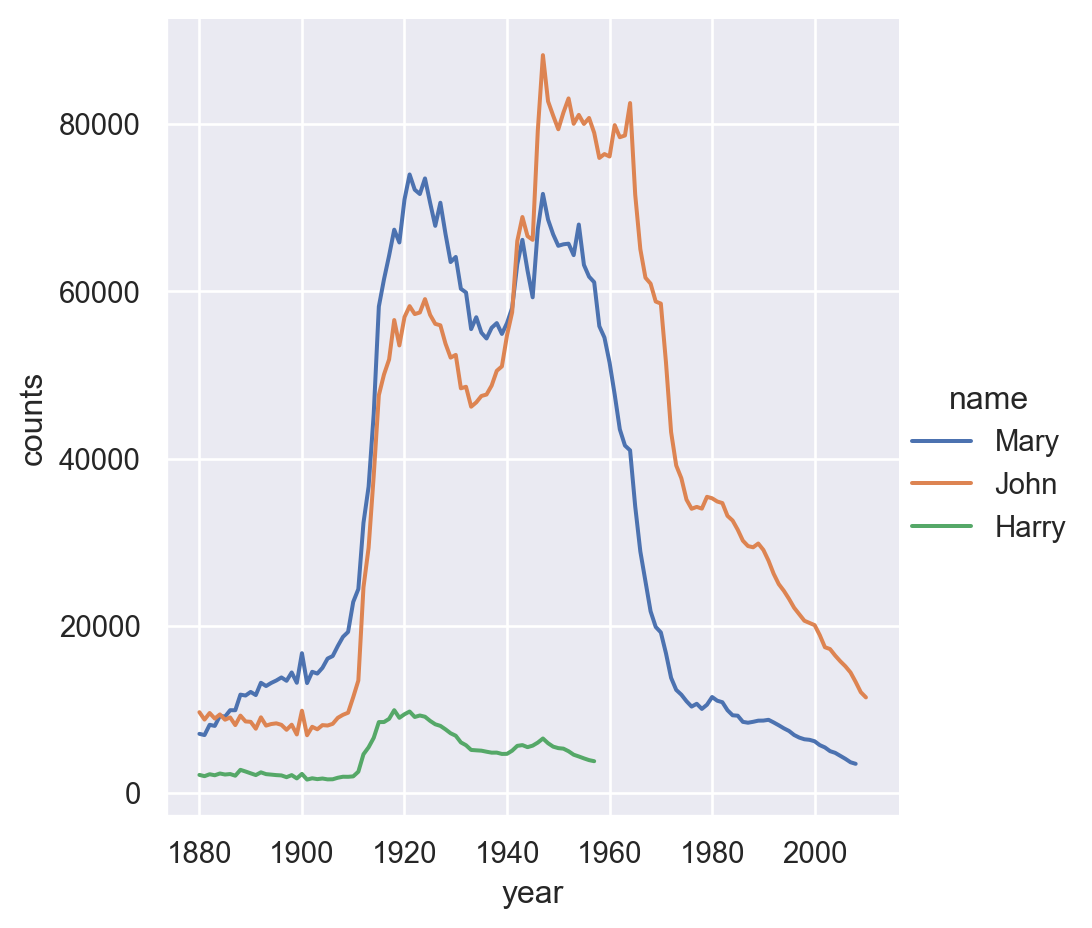
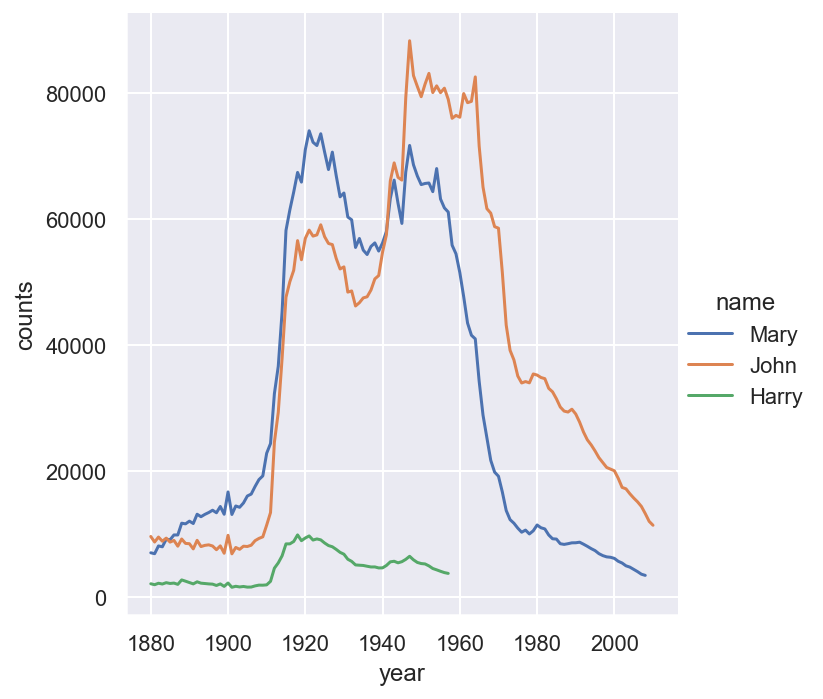
1.6.2

diff --git a/docs/contents/6/intro.html b/docs/contents/6/intro.html
@@ -369,7 +369,7 @@ Tip
 <div class="sourceCode cell-code" id="cb3"><pre class="sourceCode python code-with-copy"><code class="sourceCode python"><span id="cb3-1"><a href="#cb3-1" aria-hidden="true" tabindex="-1"></a>tzone <span class="op">=</span> df[<span class="st">'tz'</span>]</span>
 <span id="cb3-2"><a href="#cb3-2" aria-hidden="true" tabindex="-1"></a>tvc <span class="op">=</span> tzone.value_counts()</span>
 <span id="cb3-3"><a href="#cb3-3" aria-hidden="true" tabindex="-1"></a>tvc</span></code><button title="Copy to Clipboard" class="code-copy-button"><i class="bi"></i></button></pre></div>
-<div class="cell-output cell-output-display" data-execution_count="18">
+<div class="cell-output cell-output-display" data-execution_count="3">
 <pre><code>America/New_York        1251
 Unknown                  521
 America/Chicago          400
@@ -405,11 +405,11 @@ Tip
 <div class="cell" data-execution_count="4">
 <div class="sourceCode cell-code" id="cb5"><pre class="sourceCode python code-with-copy"><code class="sourceCode python"><span id="cb5-1"><a href="#cb5-1" aria-hidden="true" tabindex="-1"></a><span class="im">import</span> seaborn <span class="im">as</span> sns</span>
 <span id="cb5-2"><a href="#cb5-2" aria-hidden="true" tabindex="-1"></a>sns.barplot(x<span class="op">=</span>tvc[:<span class="dv">10</span>].values, y<span class="op">=</span>tvc[:<span class="dv">10</span>].index)</span></code><button title="Copy to Clipboard" class="code-copy-button"><i class="bi"></i></button></pre></div>
-<div class="cell-output cell-output-display" data-execution_count="19">
+<div class="cell-output cell-output-display" data-execution_count="4">
 <pre><code>&lt;AxesSubplot:&gt;</code></pre>
 </div>
 <div class="cell-output cell-output-display">
-<p><img src="intro_files/figure-html/cell-5-output-2.png" width="696" height="408"></p>
+<p><img src="intro_files/figure-html/cell-5-output-2.png" class="img-fluid"></p>
 </div>
 </div>
 </div>
@@ -435,7 +435,7 @@ Tip
 <span id="cb7-2"><a href="#cb7-2" aria-hidden="true" tabindex="-1"></a>agent <span class="op">=</span> agent.<span class="bu">str</span>.split(<span class="st">' '</span>).<span class="bu">str</span>[<span class="dv">0</span>]</span>
 <span id="cb7-3"><a href="#cb7-3" aria-hidden="true" tabindex="-1"></a>avc <span class="op">=</span> agent.value_counts()</span>
 <span id="cb7-4"><a href="#cb7-4" aria-hidden="true" tabindex="-1"></a>avc.head()</span></code><button title="Copy to Clipboard" class="code-copy-button"><i class="bi"></i></button></pre></div>
-<div class="cell-output cell-output-display" data-execution_count="20">
+<div class="cell-output cell-output-display" data-execution_count="5">
 <pre><code>Mozilla/5.0               2594
 Mozilla/4.0                601
 GoogleMaps/RochesterNY     121
@@ -487,7 +487,7 @@ Tip
 <div class="cell" data-execution_count="7">
 <div class="sourceCode cell-code" id="cb10"><pre class="sourceCode python code-with-copy"><code class="sourceCode python"><span id="cb10-1"><a href="#cb10-1" aria-hidden="true" tabindex="-1"></a>tz_os_counts <span class="op">=</span> df.groupby([<span class="st">'tz'</span>, <span class="st">'os'</span>]).size().unstack().fillna(<span class="dv">0</span>)</span>
 <span id="cb10-2"><a href="#cb10-2" aria-hidden="true" tabindex="-1"></a>tz_os_counts.head()</span></code><button title="Copy to Clipboard" class="code-copy-button"><i class="bi"></i></button></pre></div>
-<div class="cell-output cell-output-display" data-execution_count="22">
+<div class="cell-output cell-output-display" data-execution_count="7">
 
 <div>
 
@@ -559,7 +559,7 @@ Tip
 <span id="cb11-2"><a href="#cb11-2" aria-hidden="true" tabindex="-1"></a>tovc.name <span class="op">=</span> <span class="st">'count'</span></span>
 <span id="cb11-3"><a href="#cb11-3" aria-hidden="true" tabindex="-1"></a>dftovc <span class="op">=</span> pd.DataFrame(tovc).reset_index()</span>
 <span id="cb11-4"><a href="#cb11-4" aria-hidden="true" tabindex="-1"></a>dftovc.head()</span></code><button title="Copy to Clipboard" class="code-copy-button"><i class="bi"></i></button></pre></div>
-<div class="cell-output cell-output-display" data-execution_count="23">
+<div class="cell-output cell-output-display" data-execution_count="8">
 
 <div>
 
@@ -628,11 +628,11 @@ Tip
 <div class="callout-body-container callout-body">
 <div class="cell" data-execution_count="9">
 <div class="sourceCode cell-code" id="cb12"><pre class="sourceCode python code-with-copy"><code class="sourceCode python"><span id="cb12-1"><a href="#cb12-1" aria-hidden="true" tabindex="-1"></a>sns.barplot(x<span class="op">=</span><span class="st">'count'</span>, y<span class="op">=</span><span class="st">'tz'</span>, hue<span class="op">=</span><span class="st">'os'</span>, data<span class="op">=</span>dftovc)</span></code><button title="Copy to Clipboard" class="code-copy-button"><i class="bi"></i></button></pre></div>
-<div class="cell-output cell-output-display" data-execution_count="24">
+<div class="cell-output cell-output-display" data-execution_count="9">
 <pre><code>&lt;AxesSubplot:xlabel='count', ylabel='tz'&gt;</code></pre>
 </div>
 <div class="cell-output cell-output-display">
-<p><img src="intro_files/figure-html/cell-10-output-2.png" width="716" height="428"></p>
+<p><img src="intro_files/figure-html/cell-10-output-2.png" class="img-fluid"></p>
 </div>
 </div>
 </div>
@@ -694,11 +694,11 @@ Tip
 <span id="cb15-4"><a href="#cb15-4" aria-hidden="true" tabindex="-1"></a>            x<span class="op">=</span><span class="st">'year'</span>, y<span class="op">=</span><span class="st">'counts'</span>, hue<span class="op">=</span><span class="st">'gender'</span>, kind<span class="op">=</span><span class="st">'line'</span>)</span></code><button title="Copy to Clipboard" class="code-copy-button"><i class="bi"></i></button></pre></div>
 </div>
 <div class="cell" data-execution_count="12">
-<div class="cell-output cell-output-display" data-execution_count="25">
-<pre><code>&lt;seaborn.axisgrid.FacetGrid at 0x29038993790&gt;</code></pre>
+<div class="cell-output cell-output-display" data-execution_count="10">
+<pre><code>&lt;seaborn.axisgrid.FacetGrid at 0x22a64f7a680&gt;</code></pre>
 </div>
 <div class="cell-output cell-output-display">
-<p><img src="intro_files/figure-html/cell-13-output-2.png" width="530" height="464"></p>
+<p><img src="intro_files/figure-html/cell-13-output-2.png" class="img-fluid"></p>
 </div>
 </div>
 </div>
@@ -728,7 +728,7 @@ Tip
 <span id="cb17-6"><a href="#cb17-6" aria-hidden="true" tabindex="-1"></a>df.head()</span></code><button title="Copy to Clipboard" class="code-copy-button"><i class="bi"></i></button></pre></div>
 </div>
 <div class="cell" data-execution_count="14">
-<div class="cell-output cell-output-display" data-execution_count="26">
+<div class="cell-output cell-output-display" data-execution_count="11">
 
 <div>
 
@@ -818,7 +818,7 @@ Tip
 <span id="cb18-8"><a href="#cb18-8" aria-hidden="true" tabindex="-1"></a>top100.head()</span></code><button title="Copy to Clipboard" class="code-copy-button"><i class="bi"></i></button></pre></div>
 </div>
 <div class="cell" data-execution_count="16">
-<div class="cell-output cell-output-display" data-execution_count="27">
+<div class="cell-output cell-output-display" data-execution_count="12">
 
 <div>
 
@@ -904,11 +904,11 @@ Tip
 <span id="cb19-3"><a href="#cb19-3" aria-hidden="true" tabindex="-1"></a>            x<span class="op">=</span><span class="st">'year'</span>, y<span class="op">=</span><span class="st">'counts'</span>, hue<span class="op">=</span><span class="st">'name'</span>, kind<span class="op">=</span><span class="st">'line'</span>)</span></code><button title="Copy to Clipboard" class="code-copy-button"><i class="bi"></i></button></pre></div>
 </div>
 <div class="cell" data-execution_count="18">
-<div class="cell-output cell-output-display" data-execution_count="28">
-<pre><code>&lt;seaborn.axisgrid.FacetGrid at 0x290370b9540&gt;</code></pre>
+<div class="cell-output cell-output-display" data-execution_count="13">
+<pre><code>&lt;seaborn.axisgrid.FacetGrid at 0x22a6440dab0&gt;</code></pre>
 </div>
 <div class="cell-output cell-output-display">
-<p><img src="intro_files/figure-html/cell-19-output-2.png" width="546" height="464"></p>
+<p><img src="intro_files/figure-html/cell-19-output-2.png" class="img-fluid"></p>
 </div>
 </div>
 </div>
@@ -963,7 +963,7 @@ Tip
 </div>
 <div class="cell" data-execution_count="21">
 <div class="cell-output cell-output-display">
-<p><img src="intro_files/figure-html/cell-22-output-1.png" width="816" height="573"></p>
+<p><img src="intro_files/figure-html/cell-22-output-1.png" class="img-fluid"></p>
 </div>
 </div>
 </div>
@@ -989,11 +989,11 @@ Tip
 <span id="cb23-2"><a href="#cb23-2" aria-hidden="true" tabindex="-1"></a>            x<span class="op">=</span><span class="st">'year'</span>, y<span class="op">=</span><span class="st">'prop'</span>, hue<span class="op">=</span><span class="st">'ending'</span>, kind<span class="op">=</span><span class="st">'line'</span>)</span></code><button title="Copy to Clipboard" class="code-copy-button"><i class="bi"></i></button></pre></div>
 </div>
 <div class="cell" data-execution_count="23">
-<div class="cell-output cell-output-display" data-execution_count="30">
-<pre><code>&lt;seaborn.axisgrid.FacetGrid at 0x29037fa8a90&gt;</code></pre>
+<div class="cell-output cell-output-display" data-execution_count="15">
+<pre><code>&lt;seaborn.axisgrid.FacetGrid at 0x22a6518f7f0&gt;</code></pre>
 </div>
 <div class="cell-output cell-output-display">
-<p><img src="intro_files/figure-html/cell-24-output-2.png" width="525" height="464"></p>
+<p><img src="intro_files/figure-html/cell-24-output-2.png" class="img-fluid"></p>
 </div>
 </div>
 </div>
